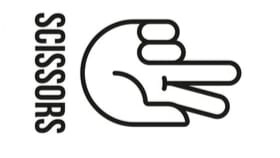
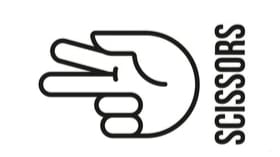
pictureChanges

Changed region(s): [[0.1143, 0.0764, 0.8857, 0.9427]]

diff --git a/print.py b/print.py
@@ -10,13 +10,13 @@ window.configure(bg="black")
 image_rock1 = ImageTk.PhotoImage(Image.open("rock-user.jpg"))
 image_paper1 = ImageTk.PhotoImage(Image.open("paper-user.jpg"))
 image_scissor1 = ImageTk.PhotoImage(Image.open("scissor-user.jpg"))
-image_rock2 = ImageTk.PhotoImage(Image.open("rock.jpg"))
-image_paper2 = ImageTk.PhotoImage(Image.open("paper.jpg"))
-image_scissor2 = ImageTk.PhotoImage(Image.open("scissor.jpg"))
+image_rock2 = ImageTk.PhotoImage(Image.open("rock-comp.jpg"))
+image_paper2 = ImageTk.PhotoImage(Image.open("paper-comp.jpg"))
+image_scissor2 = ImageTk.PhotoImage(Image.open("scissor-comp.jpg"))
 
 #insert pictures
-label_computer = Label(window,image=image_scissor1,bg="black")
-label_player = Label(window,image=image_scissor2,bg="black")
+label_computer = Label(window,image=image_scissor2,bg="black")
+label_player = Label(window,image=image_scissor1,bg="black")
 label_computer.grid(row=1 , column=0)
 label_player.grid(row=1 , column=4)
 
